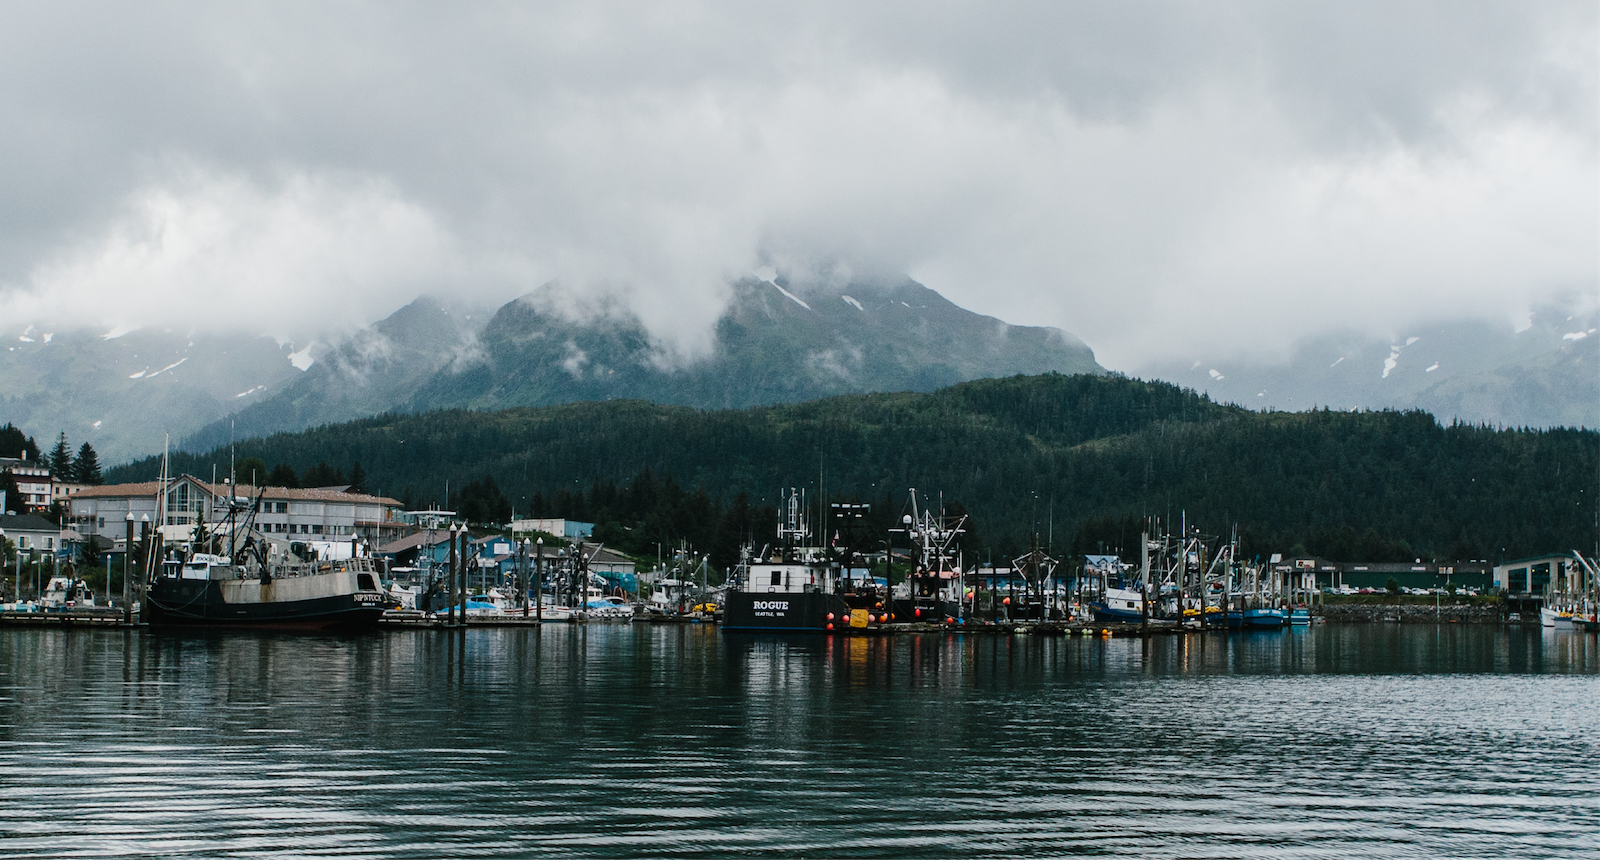
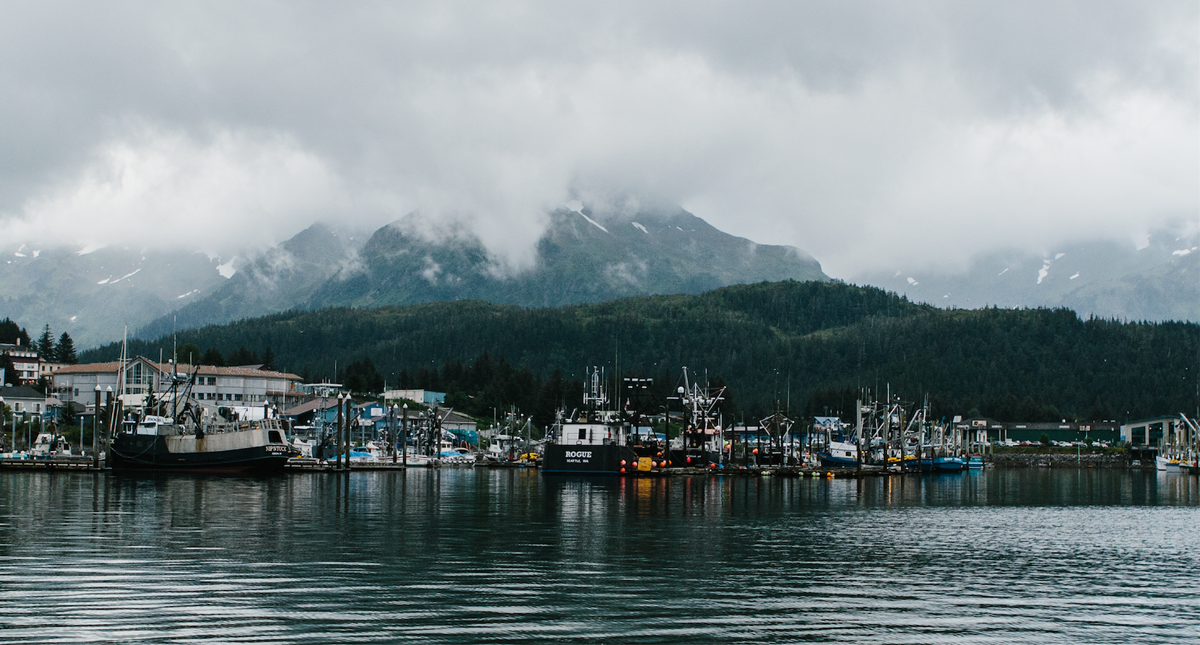
[ADD] Loader [CHG] Image optimizations [CHG] Status tweaks

Changed region(s): [[0.0, 0.5271, 1.0, 0.7442], [0.5242, 0.8062, 1.0, 1.0], [0.0, 0.8062, 0.5242, 1.0]]

diff --git a/assets/theme.css b/assets/theme.css
@@ -416,6 +416,21 @@ section {
     height: 100%;
     width: 100%; }
 
+.loader {
+  position: fixed;
+  top: 0;
+  right: 0;
+  bottom: 0;
+  left: 0;
+  background-color: #0A5593;
+  opacity: 0;
+  transition: all 300ms ease-in-out;
+  visibility: hidden;
+  z-index: 10; }
+  .loader.loading {
+    opacity: 1;
+    visibility: visible; }
+
 .alabaster-background {
   background-color: #FCFCFA; }
 

diff --git a/styles/components/_loader.scss b/styles/components/_loader.scss
@@ -1,0 +1,13 @@
+.loader {
+  @include position(fixed, 0 0 0 0);
+  background-color: $brand-blue;
+  opacity: 0;
+  transition: all $base-duration $base-timing;
+  visibility: hidden;
+  z-index: 10;
+
+  &.loading {
+    opacity: 1;
+    visibility: visible;
+  }
+}

diff --git a/styles/components/_components.scss b/styles/components/_components.scss
@@ -5,3 +5,4 @@
 @import "profile";
 @import "status";
 @import "video";
+@import "loader";
